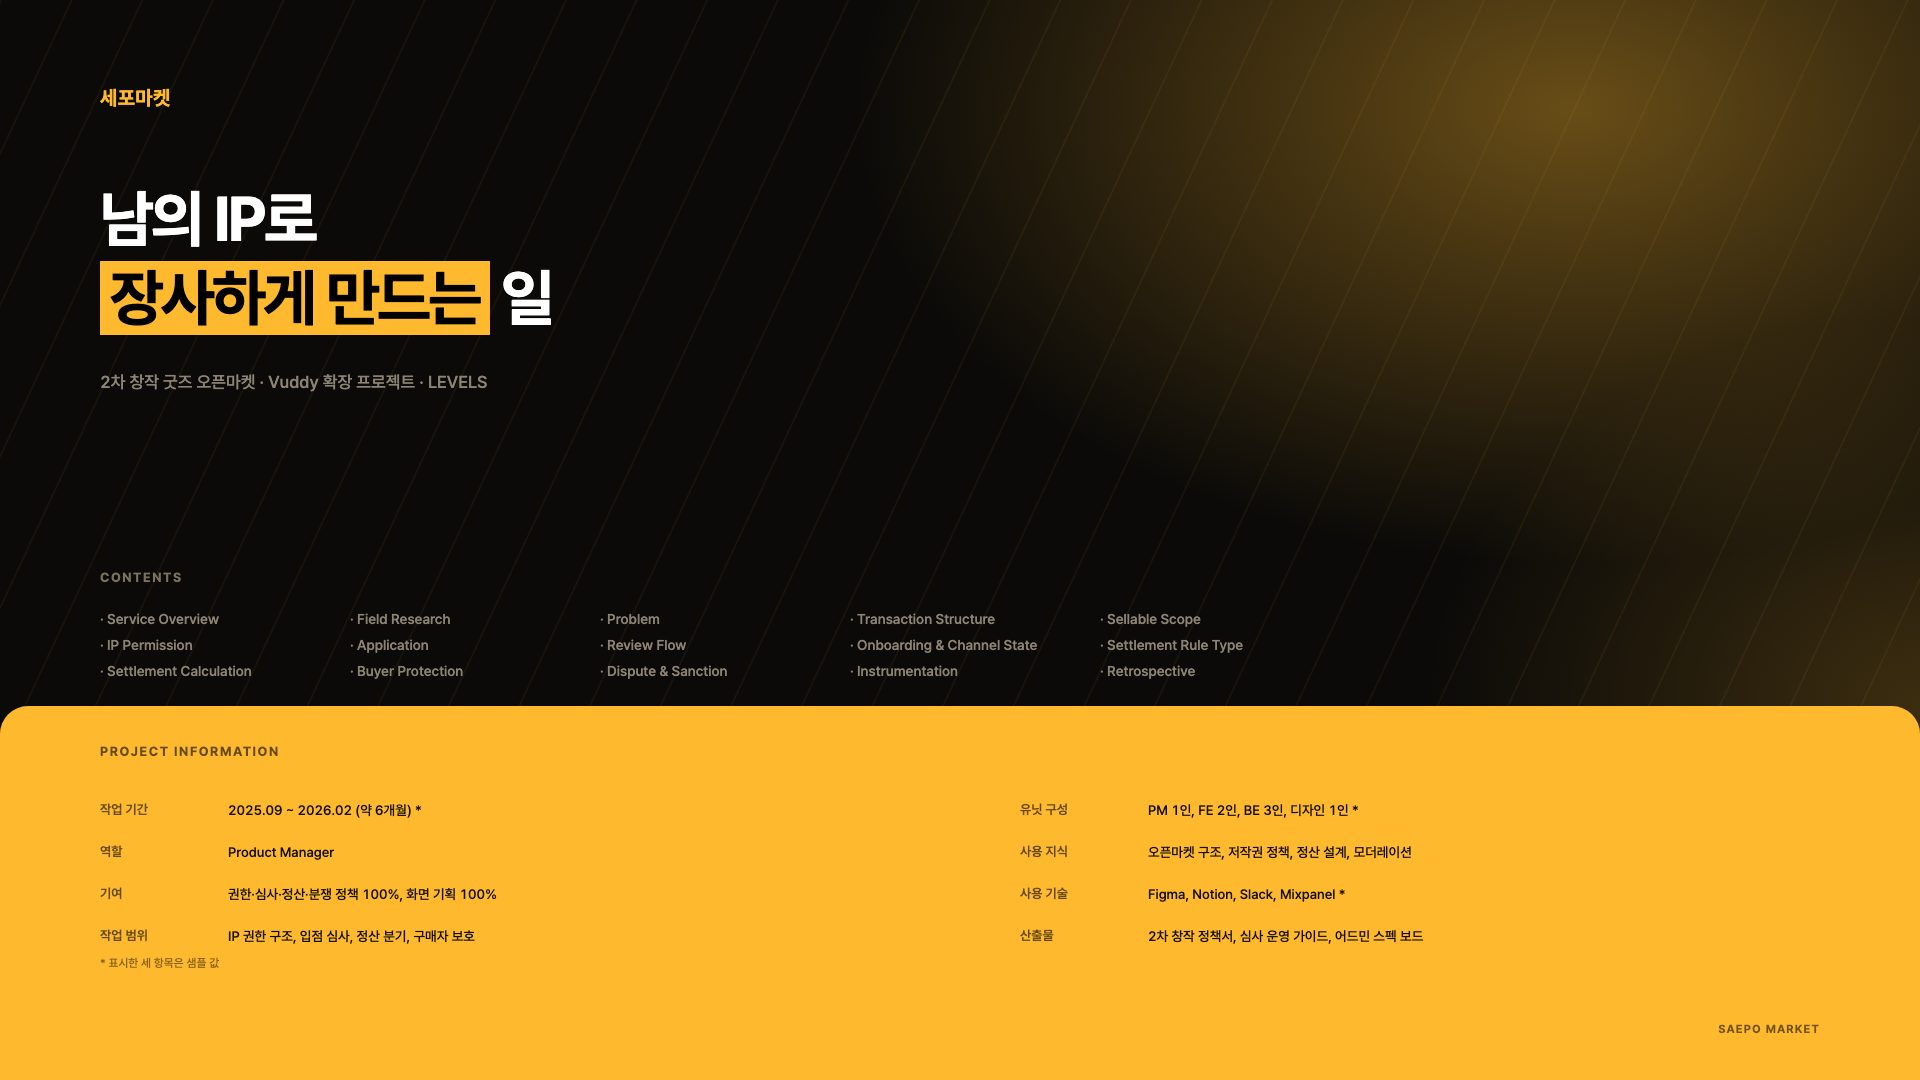
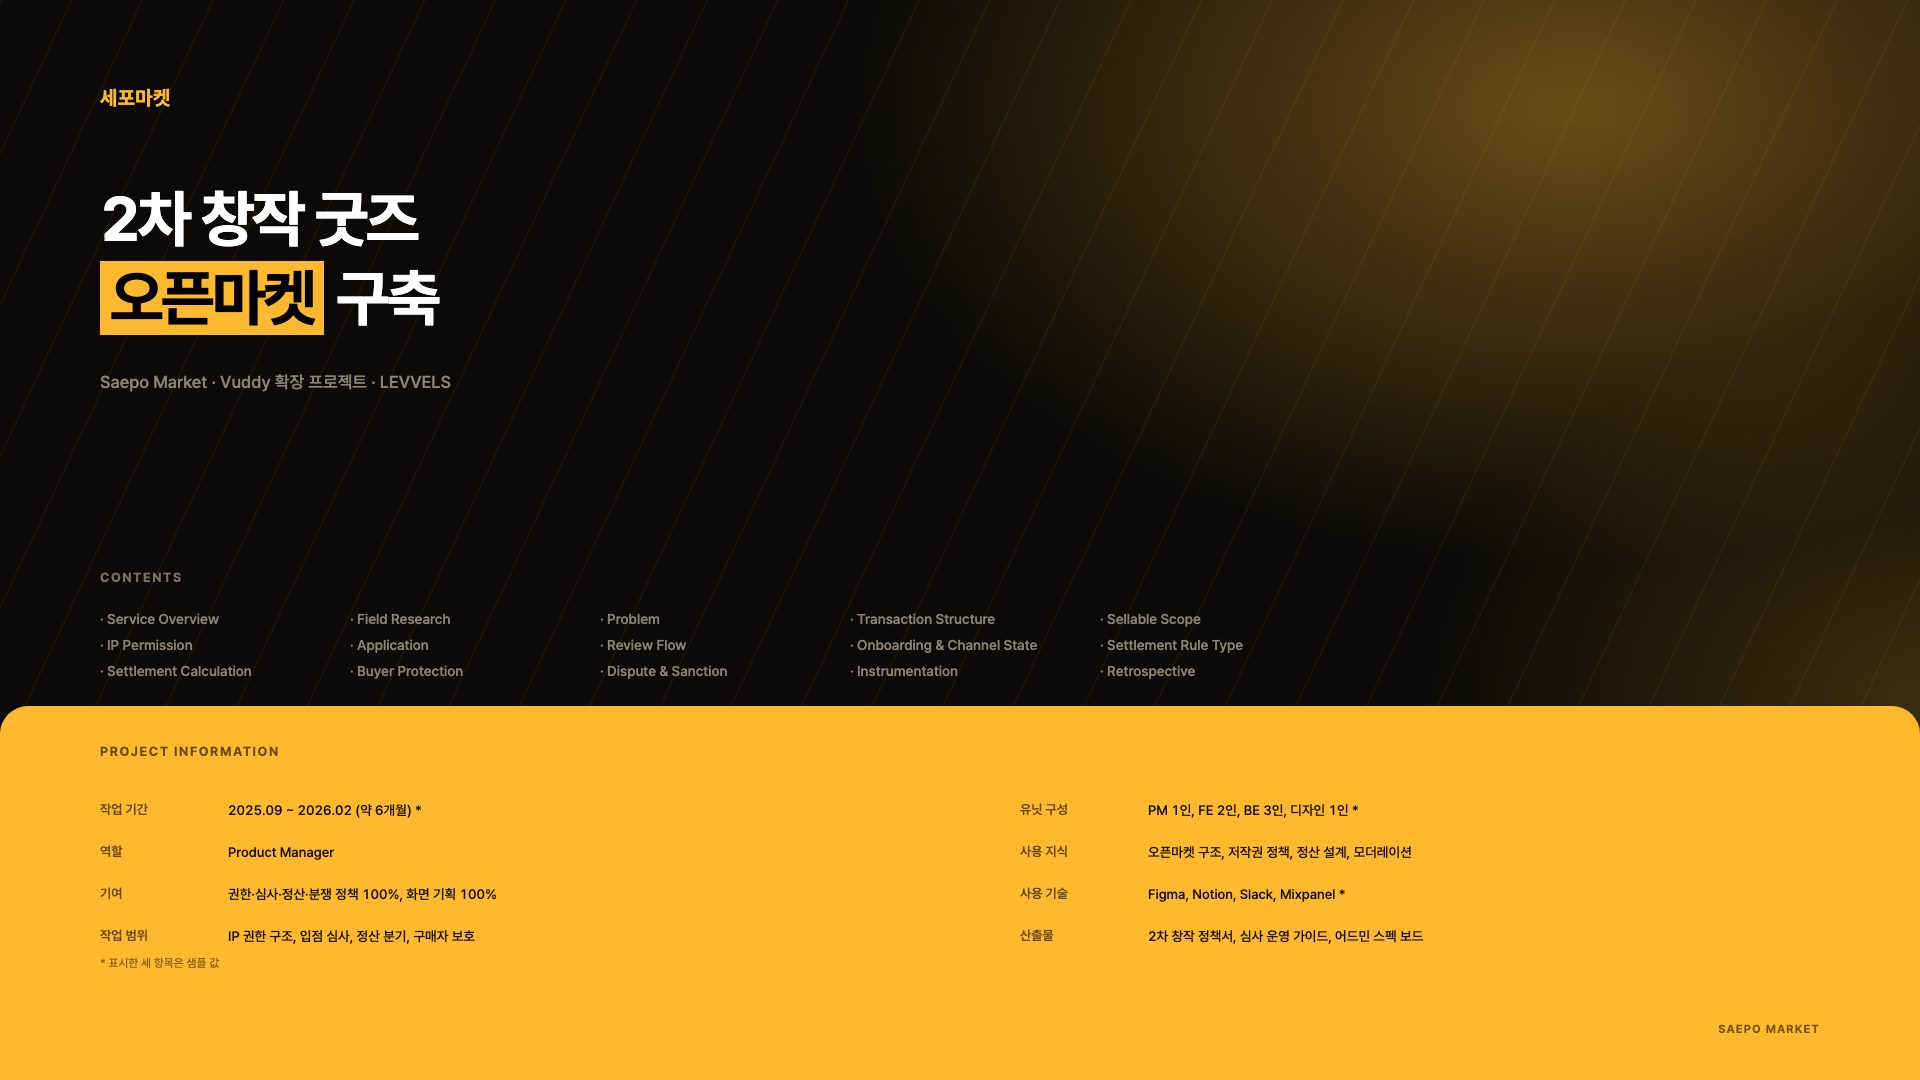
표지 제목을 제품 정의형으로 통일
표지 문법이 세 갈래로 갈려 있었다.
  물류 4건 : 36px "디지털 물류 솔루션, 판매자 OMS 시스템 구축" — 제품 정의형
  레벨스 4건: 62px 카피 + 17px 서비스 정의 — 위계가 뒤집혀 있었다
  AI 활용   : 118px 챕터명

레벨스 4건에서 제품이 무엇인지 말하는 줄이 17px 로 가장 작고 카피가
62px 로 가장 컸다. 썸네일(370px)로 줄이면 17px 는 3px 가 되어 카피만
읽히고 무엇을 만들었는지는 보이지 않았다. 물류 기준([도메인] + [제품]
구축 + 영문명)에 맞춰 제목 자리를 제품 정의로 바꿨다.

  Vuddy    팬 창작자 굿즈 커머스와 [커뮤니티 플랫폼] 구축
  Studio   창작자 판매·정산 운영 [백오피스 스튜디오] 구축
  세포마켓  2차 창작 굿즈 [오픈마켓] 구축
  Samantha AI 인터랙티브 [스토리 채팅 서비스] 구축

부제는 영문 서비스명으로 정리하고, 라임 하이라이트는 핵심 명사에 남겨
덱의 시각 정체성은 유지했다.

함께 수정: 회사명 표기가 덱마다 LEVELS / LEVVELS 로 갈려 있었다.
사이트 본문은 전부 Levvels 이므로 LEVELS 3건이 오타 — 전부 LEVVELS 로 통일.

'AI 활용'은 제품이 아니라 역량 챕터라 '~구축' 어법이 맞지 않아 그대로 뒀다.
물류 4건은 이미 제품 정의형이고 서로 일관되어 손대지 않았다.

바뀐 4건의 릴 썸네일도 재캡처.

Changed region(s): [[0.0312, 0.1528, 0.3125, 0.3667]]

diff --git a/works/samantha-embed.html b/works/samantha-embed.html
@@ -424,9 +424,9 @@ svg{font-family:Pretendard;font-variant-numeric:tabular-nums}
  <div style="position:absolute;inset:0;background:linear-gradient(100deg,rgba(6,8,14,.95) 0%,rgba(6,8,14,.86) 30%,rgba(6,8,14,.5) 52%,rgba(6,8,14,.15) 74%,rgba(6,8,14,0) 94%)"></div>
  <div style="position:absolute;left:100px;top:86px;font-size:20px;font-weight:700;color:var(--lime);letter-spacing:.02em">Samantha</div>
  <div style="position:absolute;left:100px;top:180px;width:1300px;font-size:62px;font-weight:700;
-   color:#fff;line-height:1.28;letter-spacing:-.04em">대화는 사라져도<br><em style="font-style:normal;background:var(--lime);color:#fff;padding:0 10px">관계는 남게</em></div>
+   color:#fff;line-height:1.28;letter-spacing:-.04em">AI 인터랙티브<br><em style="font-style:normal;background:var(--lime);color:#fff;padding:0 10px">스토리 채팅 서비스</em> 구축</div>
  <div style="position:absolute;left:100px;top:372px;width:1300px;font-size:17px;font-weight:500;color:#8E9AB2">
-   AI 인터랙티브 스토리 채팅 · 서비스명 0140am · LEVELS</div>
+   Samantha · 서비스명 0140am · LEVVELS</div>
  <div style="position:absolute;left:100px;top:570px;font-size:13px;font-weight:700;color:#5E6B85;letter-spacing:.12em">CONTENTS</div>
  <div style="position:absolute;left:100px;top:606px;width:1400px;display:flex;flex-wrap:wrap;gap:0"><div style="width:160px;font-size:14px;color:#8E9AB2;font-weight:500;padding:5px 0">· Service Overview</div><div style="width:160px;font-size:14px;color:#8E9AB2;font-weight:500;padding:5px 0">· Market Research</div><div style="width:160px;font-size:14px;color:#8E9AB2;font-weight:500;padding:5px 0">· Persona</div><div style="width:160px;font-size:14px;color:#8E9AB2;font-weight:500;padding:5px 0">· Problem</div><div style="width:160px;font-size:14px;color:#8E9AB2;font-weight:500;padding:5px 0">· Solution</div><div style="width:160px;font-size:14px;color:#8E9AB2;font-weight:500;padding:5px 0">· Domain Model</div><div style="width:160px;font-size:14px;color:#8E9AB2;font-weight:500;padding:5px 0">· Context Budget</div><div style="width:160px;font-size:14px;color:#8E9AB2;font-weight:500;padding:5px 0">· Memory</div><div style="width:160px;font-size:14px;color:#8E9AB2;font-weight:500;padding:5px 0">· Affinity</div><div style="width:160px;font-size:14px;color:#8E9AB2;font-weight:500;padding:5px 0">· Prompt Assembly</div><div style="width:160px;font-size:14px;color:#8E9AB2;font-weight:500;padding:5px 0">· Model Routing</div><div style="width:160px;font-size:14px;color:#8E9AB2;font-weight:500;padding:5px 0">· Safety Policy</div><div style="width:160px;font-size:14px;color:#8E9AB2;font-weight:500;padding:5px 0">· Crisis Flow</div><div style="width:160px;font-size:14px;color:#8E9AB2;font-weight:500;padding:5px 0">· Heart Economy</div><div style="width:160px;font-size:14px;color:#8E9AB2;font-weight:500;padding:5px 0">· Creator Ecosystem</div><div style="width:160px;font-size:14px;color:#8E9AB2;font-weight:500;padding:5px 0">· Globalization</div><div style="width:160px;font-size:14px;color:#8E9AB2;font-weight:500;padding:5px 0">· Information Architecture</div><div style="width:160px;font-size:14px;color:#8E9AB2;font-weight:500;padding:5px 0">· Screen Preview</div><div style="width:160px;font-size:14px;color:#8E9AB2;font-weight:500;padding:5px 0">· Metric System</div><div style="width:160px;font-size:14px;color:#8E9AB2;font-weight:500;padding:5px 0">· Scope & Trade-off</div><div style="width:160px;font-size:14px;color:#8E9AB2;font-weight:500;padding:5px 0">· Retrospective</div><div style="width:160px;font-size:14px;color:#8E9AB2;font-weight:500;padding:5px 0">· Appendix</div></div>
  <div style="position:absolute;left:0;top:706px;width:1920px;height:374px;background:#2E6BFF;border-radius:28px 28px 0 0">

diff --git a/works/sepo-embed.html b/works/sepo-embed.html
@@ -429,9 +429,9 @@ svg{font-family:Pretendard;font-variant-numeric:tabular-nums}
  <div style="position:absolute;inset:0;background-image:repeating-linear-gradient(115deg, rgba(255,185,46,.05) 0 2px, transparent 2px 64px)"></div>
  <div style="position:absolute;left:100px;top:86px;font-size:20px;font-weight:700;color:var(--lime);letter-spacing:.02em">세포마켓</div>
  <div style="position:absolute;left:100px;top:180px;width:1300px;font-size:62px;font-weight:700;
-   color:#fff;line-height:1.28;letter-spacing:-.04em">남의 IP로<br><em style="font-style:normal;background:var(--lime);color:#000;padding:0 10px">장사하게 만드는</em> 일</div>
+   color:#fff;line-height:1.28;letter-spacing:-.04em">2차 창작 굿즈<br><em style="font-style:normal;background:var(--lime);color:#000;padding:0 10px">오픈마켓</em> 구축</div>
  <div style="position:absolute;left:100px;top:372px;width:1300px;font-size:17px;font-weight:500;color:#8C8374">
-   2차 창작 굿즈 오픈마켓 · Vuddy 확장 프로젝트 · LEVELS</div>
+   Saepo Market · Vuddy 확장 프로젝트 · LEVVELS</div>
  <div style="position:absolute;left:100px;top:570px;font-size:13px;font-weight:700;color:#7A7160;letter-spacing:.12em">CONTENTS</div>
  <div style="position:absolute;left:100px;top:606px;width:1400px;display:flex;flex-wrap:wrap;gap:0"><div style="width:250px;font-size:14px;color:#8C8374;font-weight:500;padding:5px 0">· Service Overview</div><div style="width:250px;font-size:14px;color:#8C8374;font-weight:500;padding:5px 0">· Field Research</div><div style="width:250px;font-size:14px;color:#8C8374;font-weight:500;padding:5px 0">· Problem</div><div style="width:250px;font-size:14px;color:#8C8374;font-weight:500;padding:5px 0">· Transaction Structure</div><div style="width:250px;font-size:14px;color:#8C8374;font-weight:500;padding:5px 0">· Sellable Scope</div><div style="width:250px;font-size:14px;color:#8C8374;font-weight:500;padding:5px 0">· IP Permission</div><div style="width:250px;font-size:14px;color:#8C8374;font-weight:500;padding:5px 0">· Application</div><div style="width:250px;font-size:14px;color:#8C8374;font-weight:500;padding:5px 0">· Review Flow</div><div style="width:250px;font-size:14px;color:#8C8374;font-weight:500;padding:5px 0">· Onboarding & Channel State</div><div style="width:250px;font-size:14px;color:#8C8374;font-weight:500;padding:5px 0">· Settlement Rule Type</div><div style="width:250px;font-size:14px;color:#8C8374;font-weight:500;padding:5px 0">· Settlement Calculation</div><div style="width:250px;font-size:14px;color:#8C8374;font-weight:500;padding:5px 0">· Buyer Protection</div><div style="width:250px;font-size:14px;color:#8C8374;font-weight:500;padding:5px 0">· Dispute & Sanction</div><div style="width:250px;font-size:14px;color:#8C8374;font-weight:500;padding:5px 0">· Instrumentation</div><div style="width:250px;font-size:14px;color:#8C8374;font-weight:500;padding:5px 0">· Retrospective</div></div>
  <div style="position:absolute;left:0;top:706px;width:1920px;height:374px;background:var(--lime);border-radius:28px 28px 0 0">

diff --git a/works/studio-embed.html b/works/studio-embed.html
@@ -181,9 +181,9 @@ border-radius:3px;padding:7px 15px;font-size:13.5px;color:var(--g1);font-weight:
  </div>
  <div style="position:absolute;left:100px;top:86px;font-size:20px;font-weight:700;color:var(--lime);letter-spacing:.02em">Vuddy Creator Studio</div>
  <div style="position:absolute;left:100px;top:180px;width:1300px;font-size:62px;font-weight:700;color:#fff;line-height:1.28;letter-spacing:-.04em">
-   크리에이터에게<br><em style="font-style:normal;background:var(--lime);color:#000;padding:0 10px">되돌릴 수 없는 버튼</em>은<br>주지 않았습니다</div>
+   창작자 판매 · 정산 운영<br><em style="font-style:normal;background:var(--lime);color:#000;padding:0 10px">백오피스 스튜디오</em> 구축</div>
  <div style="position:absolute;left:100px;top:440px;width:1200px;font-size:17px;font-weight:500;color:#9AA396">
-   창작자용 판매 · 이행 · 정산 운영 도구 · LEVVELS</div>
+   Vuddy Creator Studio · LEVVELS</div>
 
  <div style="position:absolute;left:100px;top:600px;font-size:13px;font-weight:700;color:#6E7A6C;letter-spacing:.12em">CONTENTS</div>
  <div style="position:absolute;left:100px;top:636px;width:880px;display:flex;flex-wrap:wrap;gap:0">

diff --git a/works/vuddy-embed.html b/works/vuddy-embed.html
@@ -380,9 +380,9 @@ svg{font-family:Pretendard;font-variant-numeric:tabular-nums}
 
  <div style="position:absolute;left:100px;top:86px;font-size:20px;font-weight:700;color:var(--lime);letter-spacing:.02em">Vuddy</div>
  <div style="position:absolute;left:100px;top:180px;width:1200px;font-size:62px;font-weight:700;
-   color:#fff;line-height:1.28;letter-spacing:-.04em">창작자가 돈과 관계를<br><em style="font-style:normal;background:var(--lime);color:#000;padding:0 10px">예측할 수 있게</em></div>
+   color:#fff;line-height:1.28;letter-spacing:-.04em">팬 창작자 굿즈 커머스와<br><em style="font-style:normal;background:var(--lime);color:#000;padding:0 10px">커뮤니티 플랫폼</em> 구축</div>
  <div style="position:absolute;left:100px;top:372px;width:1200px;font-size:17px;font-weight:500;color:#9AA396">
-   팬 창작자 굿즈 커머스와 커뮤니티 플랫폼 · LEVELS</div>
+   Creator Commerce Platform · LEVVELS</div>
 
  <div style="position:absolute;left:100px;top:570px;font-size:13px;font-weight:700;color:#6E7A6C;letter-spacing:.12em">CONTENTS</div>
  <div style="position:absolute;left:100px;top:606px;width:1300px;display:flex;flex-wrap:wrap;gap:0">
